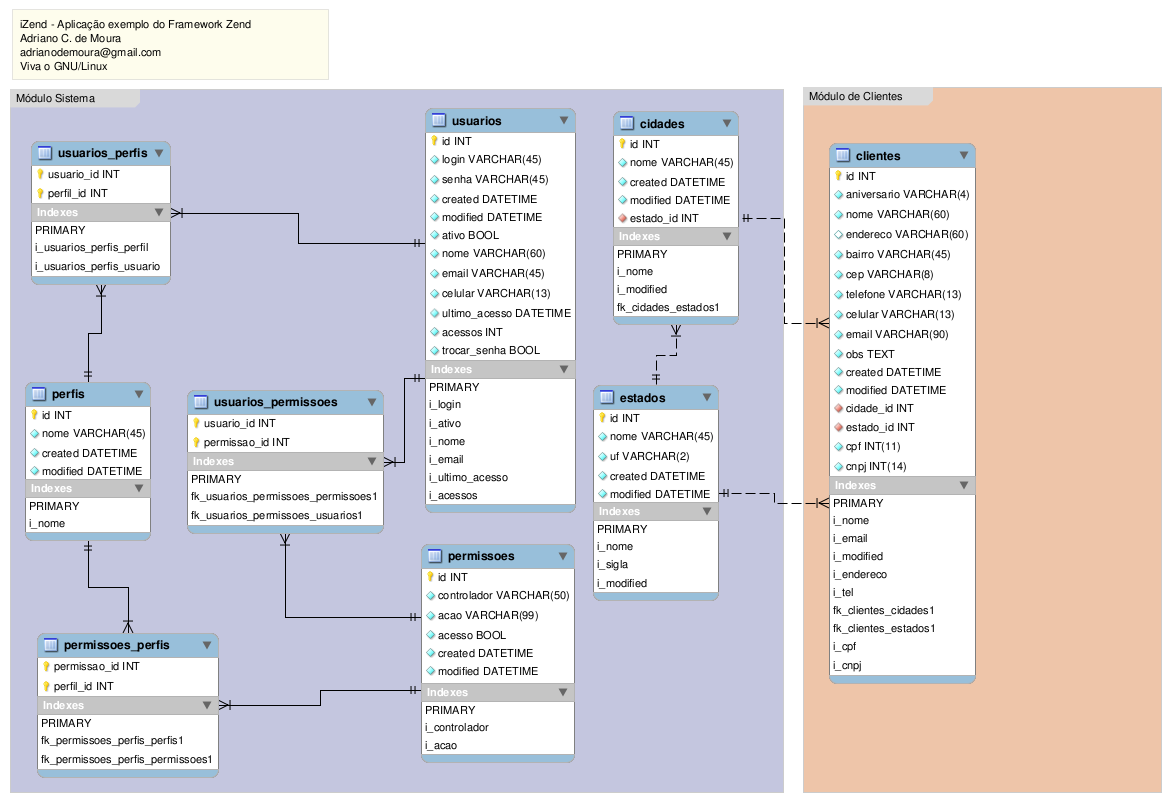
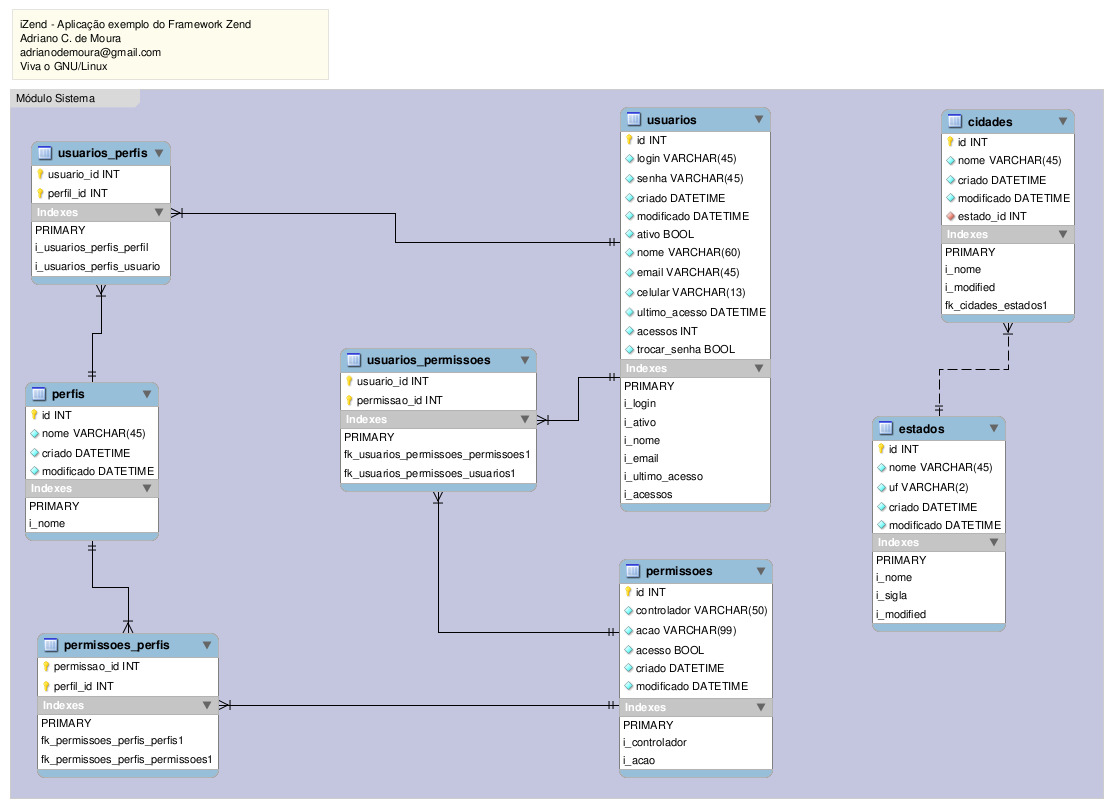
correção no módulos sistema

diff --git a/public/css/listar.css b/public/css/listar.css
@@ -8,7 +8,7 @@
 #listar #barra
 {
 	margin: 5px 0px 5px 0px;
-	background-color: #acc4e6;
+	background-color: #D1D194;
 	height: 40px;
 }
 
@@ -29,7 +29,7 @@
 #listar #grade #menu ul li
 {
 	line-height: 20px;
-	border-bottom: 1px dashed #333;
+	border-bottom: 1px dashed #ccc;
 }
 
 #listar #grade #tabela
@@ -41,24 +41,36 @@
 {
 	display: block;
 	text-decoration: none;
-	color: #333333;
+	color: #333;
 }
 
 #listar #grade #menu a:hover
 {
 	color: #000;
-	background-color: #ddd;
+	background-color: #E5E5BE;
 }
 
 #listar .cadastroAtivo
 {
-	background-color: #acc4e6;
+	background-color: #D1D194;
 }
 
 #listar table
 {
 	border-top: 1px solid #ccc;
 	border-right: 1px solid #ccc;
+	font-size: 10px;
+}
+
+#listar table tr:hover
+{
+	background-color: #D1D194;
+	cursor: pointer;
+}
+
+#listar table tr td
+{
+	padding: 1px 3px 1px 3px;
 }
 
 #listar table th

diff --git a/application/controllers/AppController.php b/application/controllers/AppController.php
@@ -52,12 +52,10 @@ class AppController extends Zend_Controller_Action {
 		$this->view->perfis  		= isset($this->Sessao->perfis)   ? $this->Sessao->perfis    : array();
 		$this->view->permissao 		= isset($this->Sessao->permissao)? $this->Sessao->permissao : array();
 		$this->view->campos			= array();
-		$this->view->posicao 		= $this->view->controllerName.' | '.$this->view->actionName;
-		//$url						= rtrim(Zend_Controller_Front::getInstance()->getBaseUrl(),'/').'/';
+		$this->view->posicao 		= ucfirst(mb_strtolower($this->view->controllerName)).' | '.ucfirst(mb_strtolower($this->view->actionName));
 
 		// configurando as opções de menu de módulo
 		$this->view->menuModulos	= array();
-		$this->view->menuModulos['Clientes']= 'clientes';
 		$this->view->menuModulos['Sistema']	= 'cidades';
 
 		// configurando as opções de menu de cada módulo
@@ -73,13 +71,33 @@ class AppController extends Zend_Controller_Action {
 		
 		// configurando as propriedades de cada campo que será usada na view
 		$this->view->campos			= array();
-		$this->view->campos['nome']['label'] = 'Nome';
+		$this->view->campos['nome']['label'] 			= 'Nome';
+		$this->view->campos['nome']['td']['width']		= '200px';
+
 		$this->view->campos['ultimo_acesso']['label']	= 'Último Acesso';
 		$this->view->campos['ultimo_acesso']['mascara']	= '99/99/9999 99:99:99';
-		$this->view->campos['created']['label']			= 'Criado';
-		$this->view->campos['created']['mascara']		= '99/99/9999 99:99:99';
-		$this->view->campos['modified']['label']		= 'Modificado';
-		$this->view->campos['modified']['mascara']		= '99/99/9999 99:99:99';
+
+		$this->view->campos['estado']['label']			= 'Estado';
+		$this->view->campos['estado']['td']['width']	= '130px';
+		
+		$this->view->campos['login']['label']			= 'Login';
+
+		$this->view->campos['uf']['label']				= 'Uf';
+		$this->view->campos['uf']['td']['width']		= '50px';
+		$this->view->campos['uf']['td']['align']		= 'center';
+
+		$this->view->campos['controlador']['label']		= 'Cadastro';
+
+		$this->view->campos['acao']['label']		= 'Ação';
+
+		$this->view->campos['criado']['label']			= 'Criado';
+		$this->view->campos['criado']['td']['width']	= '130px';
+		$this->view->campos['criado']['td']['align']	= 'center';
+		$this->view->campos['criado']['mascara']		= '99/99/9999 99:99:99';
+		$this->view->campos['modificado']['label']		= 'Modificado';
+		$this->view->campos['modificado']['mascara']	= '99/99/9999 99:99:99';
+		$this->view->campos['modificado']['td']['width']= '130px';
+		$this->view->campos['modificado']['td']['align']= 'center';
 	}
 
 	/**

diff --git a/application/controllers/FerramentasController.php b/application/controllers/FerramentasController.php
@@ -65,7 +65,7 @@ class FerramentasController extends Zend_Controller_Action {
 								{
 									// insere usuários administrador
 									$bd   = Zend_Db_Table_Abstract::getDefaultAdapter();
-									$sql  = 'INSERT INTO usuarios (login,senha,nome,email,ativo,acessos,ultimo_acesso,created,modified) ';
+									$sql  = 'INSERT INTO usuarios (login,senha,nome,email,ativo,acessos,ultimo_acesso,criado,modificado) ';
 									$sql .= 'VALUES ("'.$dataForm['login'].'",sha1("'.$dataForm['login'].'"),"'.$dataForm['nome'].'","'.$dataForm['email'].'",1,1,sysdate(),sysdate(),sysdate())';
 									try
 									{
@@ -169,7 +169,7 @@ class FerramentasController extends Zend_Controller_Action {
 						$t = count($linha);
 						foreach($linha as $valor)
 						{
-							if ($arr_campos[$i]=='created' || $arr_campos[$i]=='modified') $valor = date("Y-m-d H:i:s");
+							if ($arr_campos[$i]=='criado' || $arr_campos[$i]=='modificado') $valor = date("Y-m-d H:i:s");
 							$valores .= "'".str_replace("'","\'",$valor)."'";
 							$i++;
 							if ($i!=$t) $valores .= ',';
@@ -187,13 +187,13 @@ class FerramentasController extends Zend_Controller_Action {
 				}
 				fclose($handle);
 
-				// verificando se a tabela possui created e modified
+				// verificando se a tabela possui criado e modificado
 				$res = $bd->fetchAll('SHOW FULL COLUMNS FROM '.$tabela);
 
 				foreach($res as $_linha => $_arrCmp)
 				{
-					if ($_arrCmp['Field']=='modified')	array_push($cmps,'modified');
-					if ($_arrCmp['Field']=='created')	array_push($cmps,'created');
+					if ($_arrCmp['Field']=='modificado')	array_push($cmps,'modificado');
+					if ($_arrCmp['Field']=='criado')	array_push($cmps,'criado');
 				}
 				if (count($cmps))
 				{

diff --git a/application/controllers/CidadesController.php b/application/controllers/CidadesController.php
@@ -26,10 +26,10 @@ class CidadesController extends AppController {
 			case 'listar':
 				$this->view->posicao		= 'Cidades | Listar';
 				$this->view->listaMenu		= 'menu_sistema';
-				$this->view->listaCampos	= array('nome','estado','modified','created');
+				$this->view->listaCampos	= array('nome','estado','modificado','criado');
 				$select = $this->Cidade->select()
 					->setIntegrityCheck(false)
-					->from(array('c'=>'cidades'), array('c.id','c.nome','e.nome as estado','c.modified','c.created'))
+					->from(array('c'=>'cidades'), array('c.id','c.nome','e.nome as estado','c.modificado','c.criado'))
 					->join(array('e'=>'estados'), 'e.id = c.estado_id', array())
 					->order('c.nome ASC')
 					->limit(20);

diff --git a/application/controllers/PermissoesController.php b/application/controllers/PermissoesController.php
@@ -25,7 +25,7 @@ class PermissoesController extends AppController {
 		{
 			case 'listar':
 				$this->view->listaMenu		= 'menu_sistema';
-				$this->view->listaCampos	= array('controlador','acao','modified','created');
+				$this->view->listaCampos	= array('controlador','acao','modificado','criado');
 				$select = $this->Permissao->select()->order('controlador ASC')->limit(20);
 				$this->view->data = $this->Permissao->fetchAll($select)->toArray();
 				break;

diff --git a/application/controllers/PerfisController.php b/application/controllers/PerfisController.php
@@ -25,7 +25,7 @@ class PerfisController extends AppController {
 		{
 			case 'listar':
 				$this->view->listaMenu		= 'menu_sistema';
-				$this->view->listaCampos	= array('nome','modified','created');
+				$this->view->listaCampos	= array('nome','modificado','criado');
 				$select = $this->Perfil->select()->order('nome ASC')->limit(20);
 				$this->view->data = $this->Perfil->fetchAll($select)->toArray();
 				break;

diff --git a/application/controllers/UsuariosController.php b/application/controllers/UsuariosController.php
@@ -23,7 +23,7 @@ class UsuariosController extends AppController {
 		{
 			case 'listar':
 				$this->view->posicao 		= 'Usuários | Listar';
-				$this->view->listaCampos	= array('login','nome');
+				$this->view->listaCampos	= array('login','nome','modificado','criado');
 				$select = $this->Usuario->select()
 					->from(array('u'=>'usuarios'), array())
 					->order('login ASC')

diff --git a/application/controllers/EstadosController.php b/application/controllers/EstadosController.php
@@ -25,7 +25,7 @@ class EstadosController extends AppController {
 		{
 			case 'listar':
 				$this->view->listaMenu		= 'menu_sistema';
-				$this->view->listaCampos	= array('nome','uf');
+				$this->view->listaCampos	= array('nome','uf','modificado','criado');
 				$select = $this->Estado->select()
 					->order('nome ASC')
 					->limit(20);
